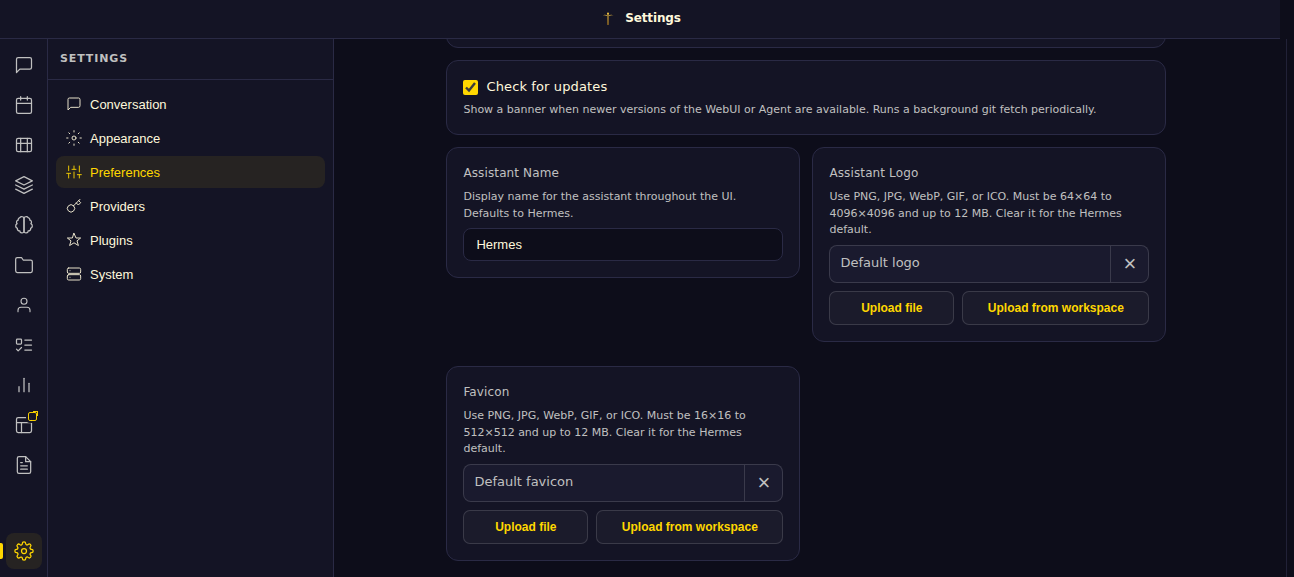
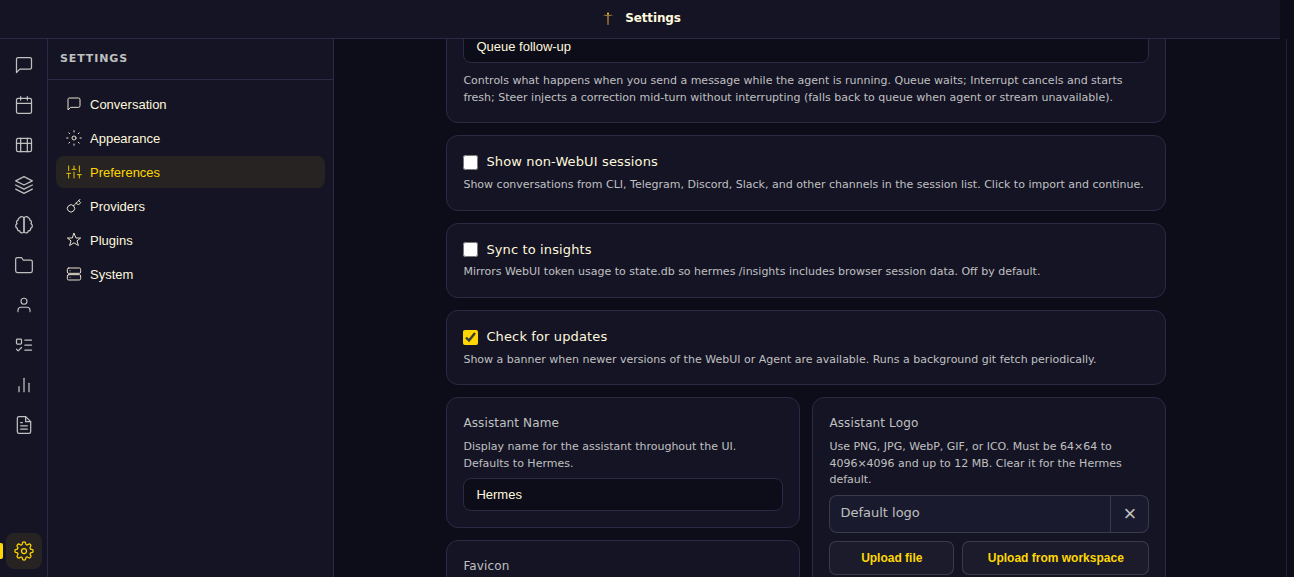
fix: tighten branding controls layout

diff --git a/static/style.css b/static/style.css
@@ -3775,7 +3775,12 @@ main.main.showing-logs > #mainLogs{display:flex;}
 .logs-empty,.logs-hint{margin:8px 14px;padding:12px;border:1px solid var(--border);border-radius:8px;color:var(--muted);background:var(--surface);white-space:normal;font-family:var(--font-ui,system-ui,sans-serif);font-size:12px;}
 .logs-hint.warn{color:#f59e0b;border-color:rgba(245,158,11,.35);background:rgba(245,158,11,.08);}
 
-  .settings-branding-grid{display:grid;grid-template-columns:repeat(auto-fit,minmax(300px,1fr));gap:12px;align-items:start;}
+  .settings-branding-grid{display:grid;grid-template-columns:repeat(2,minmax(0,1fr));grid-template-areas:"name logo" "favicon logo";gap:12px;align-items:start;}
+  #mainSettings .settings-branding-grid > .settings-field{margin-bottom:0;}
+  .settings-branding-grid > .settings-field:nth-child(1){grid-area:name;}
+  .settings-branding-grid > .settings-field:nth-child(2){grid-area:logo;}
+  .settings-branding-grid > .settings-field:nth-child(3){grid-area:favicon;}
+  @media (max-width:680px){.settings-branding-grid{grid-template-columns:1fr;grid-template-areas:"name" "logo" "favicon";}}
   .brand-file-control{display:flex;align-items:center;min-width:0;width:100%;height:38px;background:var(--code-bg);color:var(--text);border:1px solid var(--border2);border-radius:8px;overflow:hidden;}
   .brand-file-actions{display:grid;grid-template-columns:minmax(92px,.8fr) minmax(160px,1.2fr);gap:8px;margin-top:8px;}
   .brand-file-action{min-height:34px;padding:0 10px;border:1px solid var(--border2);border-radius:7px;background:rgba(255,255,255,.03);color:var(--accent);font-size:12px;font-weight:650;cursor:pointer;white-space:nowrap;}

diff --git a/tests/test_custom_logo_settings.py b/tests/test_custom_logo_settings.py
@@ -237,6 +237,16 @@ def test_custom_logo_retains_skin_accent_glow():
     assert ".brand-logo.is-custom{background:transparent;border-color:var(--border2);box-shadow:none" not in style
 
 
+def test_branding_settings_grid_keeps_favicon_tucked_under_name():
+    style = (ROOT / "static" / "style.css").read_text(encoding="utf-8")
+    assert 'grid-template-areas:"name logo" "favicon logo"' in style
+    assert "#mainSettings .settings-branding-grid > .settings-field{margin-bottom:0;}" in style
+    assert ".settings-branding-grid > .settings-field:nth-child(1){grid-area:name;}" in style
+    assert ".settings-branding-grid > .settings-field:nth-child(2){grid-area:logo;}" in style
+    assert ".settings-branding-grid > .settings-field:nth-child(3){grid-area:favicon;}" in style
+    assert '@media (max-width:680px){.settings-branding-grid{grid-template-columns:1fr;grid-template-areas:"name" "logo" "favicon";}}' in style
+
+
 def test_cached_custom_logo_hides_default_logo_before_boot_reconciliation():
     style = (ROOT / "static" / "style.css").read_text(encoding="utf-8")
     assert "html[data-branding-logo-cached] #appTitlebarLogo:not(.is-custom) > svg" in style
